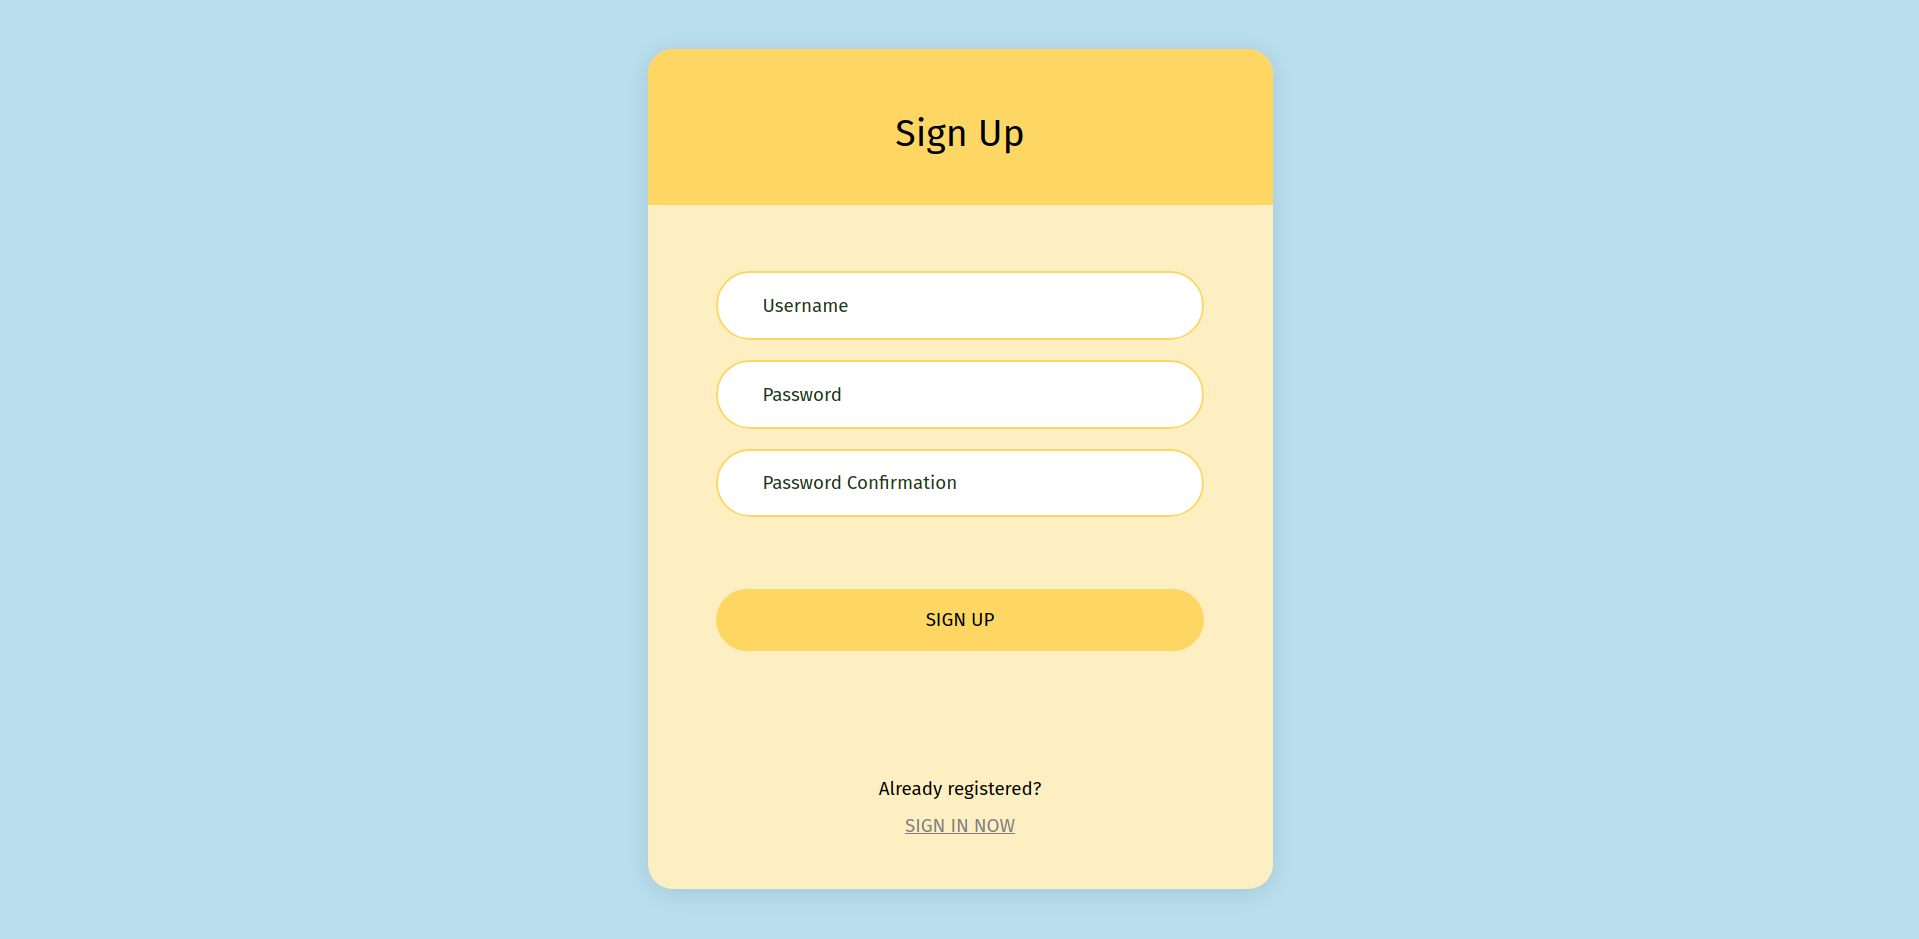
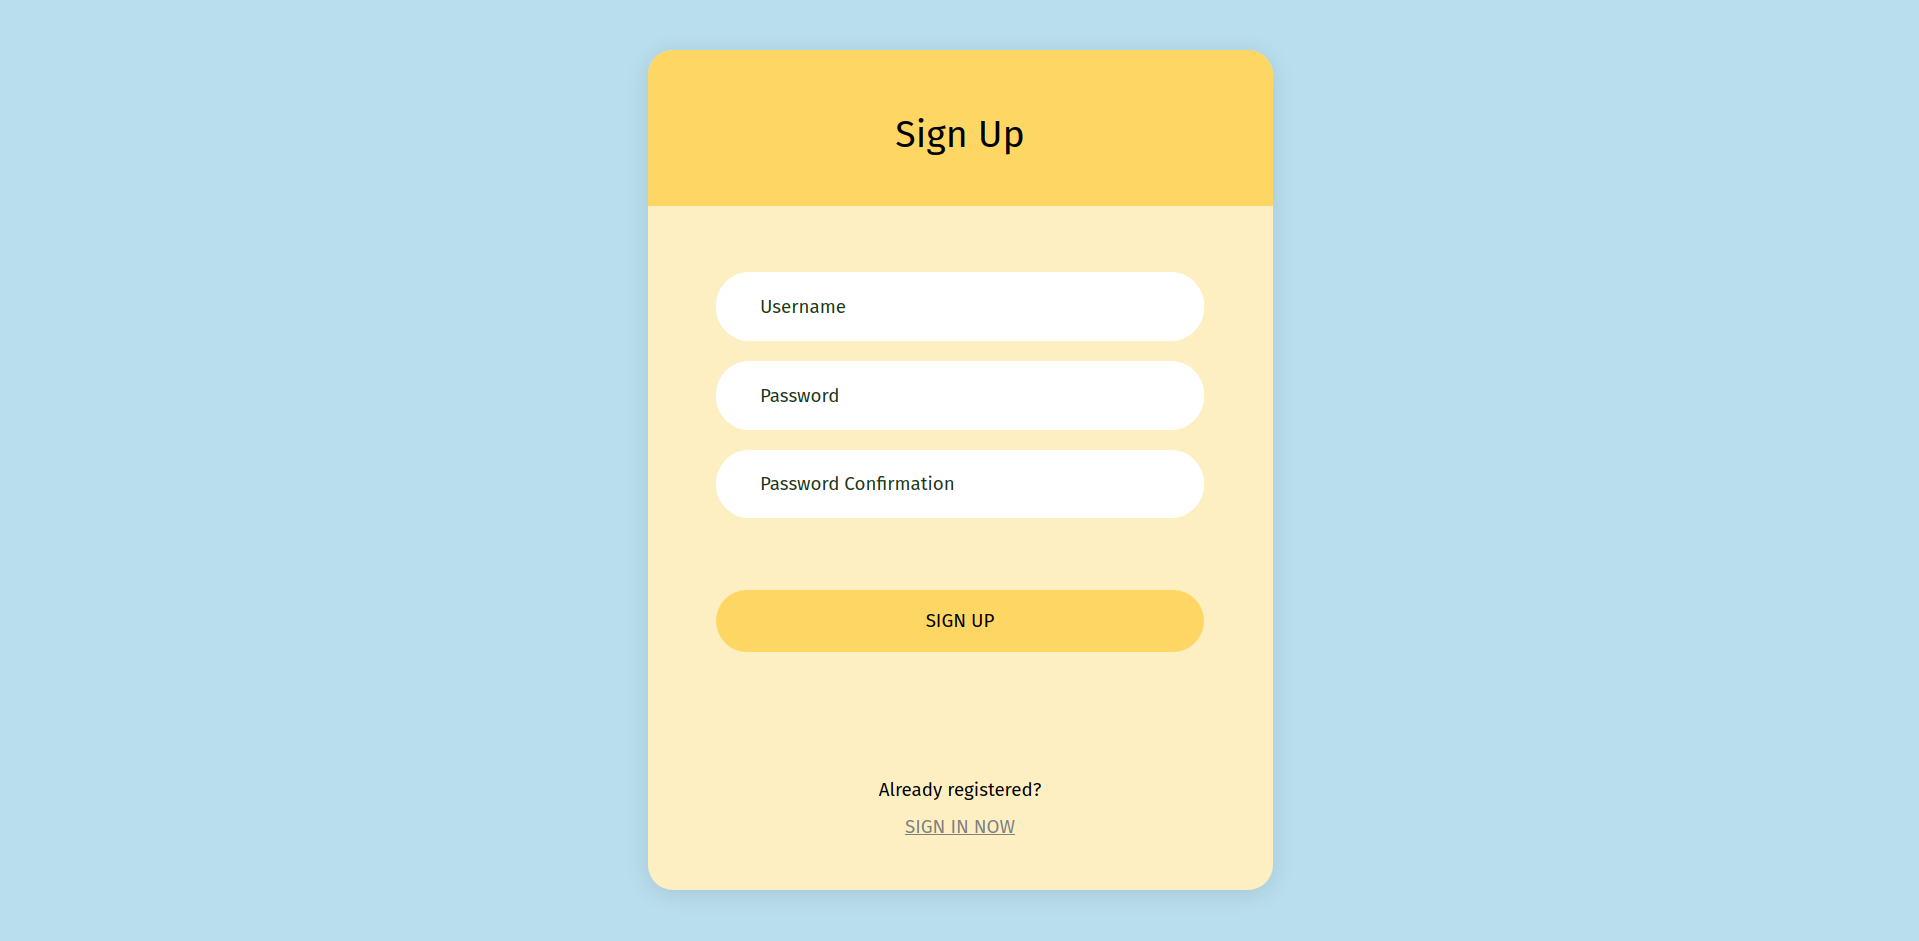
final 1

diff --git a/notes/templates/notes/settings.html b/notes/templates/notes/settings.html
@@ -4,6 +4,24 @@ About
 {% endblock %}
 {% block content %}
     <div style="text-align: center; margin-top: 15px">
-    <h5>This is notes-based mini social network</h5>
+    <h5> Welcome to GroupNotes - a mini scrapbook-based social network! </h5>
+    </div>
+    <div style="margin-left: 10px; margin-right: 10px">
+    <p>
+        check <a href="https://github.com/thunderpeal/group_notes">GroupNotes github</a><br><br>
+        The principle of work is based on the ability to create many boards with notes and share them with colleagues, family, friends, whoever else! <br>
+        By default, you have one whiteboard - for personal notes. However, you can join a group or create one yourself and invite people - a separate board will be created for each group. <br><br>
+        When adding notes, you can specify to which group or to which user from your groups you want to send it, or you can make it personal without selecting anything. <br>
+        All notes sent to the group will be displayed on a separate tab, which can be selected from the drop-down menu at the top. <br>
+        All notes sent to a specific user will be displayed on that user's personal board. Thus, an analogue of private messages is obtained.<br><br>
+        A wide range of actions with the group:
+        <ul>
+        <li>you can change the name and password if you are an admin. The color of the group notes can be chosen by each user of the group - this is the color of the headings of the notes on the group tab.</li>
+        <li>you can exclude users from the group, and then there will be an opportunity to return them - for this there is a special section "Manage ban", in which all blocked users will be stored.</li>
+        <li>you can leave the group, and all joint data will be deleted. If the admin left the group, the admin is randomly selected from the remaining users. If there are none, the group is deleted.</li>
+        <li>you can delete the group yourself (if you are an admin). In this case, all notes will be deleted, all users will be excluded and the group will be deleted permanently. </li>
+        </ul>
+
+    </p>
     </div>
 {% endblock content %}

diff --git a/basic/static/basic/css/main.css b/basic/static/basic/css/main.css
@@ -57,7 +57,7 @@ form{
 }
 input {
   outline: none;
-  border: 2px solid #fdd663;
+  border: none;
   font-family: 'Fira Sans', sans-serif;
   font-size: 15px;
   color: #1b3815;
@@ -372,4 +372,42 @@ iframe {
     padding-left: 15px;
     padding-right: 15px;
   }
+}
+
+.welcome-header{
+  border-radius:  20px 20px 0 0;
+  background-color: #fdd663;
+  padding: 15px;
+  margin: 0;
+  width: 100%;
+  flex: 0 1 auto;
+}
+
+
+
+.group-sign{
+  display: flex;
+justify-content: center;
+  width: 25%;
+  height: 50px;
+  margin-bottom: 15px;
+  background-color: #fdd663;
+  border-radius: 25px;
+  transition: all 0.4s;
+  align-items: center;
+}
+
+.group-sign a{
+  text-decoration: none;
+  color: #000000;
+  width: 100%;
+  height: 100%;
+  font-size: 16px;
+  display: flex;
+    justify-content: center;
+    align-items: center;
+}
+
+.group-sign:hover{
+  background-color: #cab3b7;
 }

diff --git a/notes/templates/notes/basic.html b/notes/templates/notes/basic.html
@@ -4,7 +4,7 @@
 <head>
     <meta charset="UTF-8">
 
-    <title>{% block title %}{% endblock %} — Family Notes</title>
+    <title>{% block title %}{% endblock %} — GroupNotes</title>
     <link href="https://cdn.jsdelivr.net/npm/bootstrap@5.1.0/dist/css/bootstrap.min.css" rel="stylesheet" integrity="sha384-KyZXEAg3QhqLMpG8r+8fhAXLRk2vvoC2f3B09zVXn8CA5QIVfZOJ3BCsw2P0p/We" crossorigin="anonymous">
     <script src="https://cdn.jsdelivr.net/npm/bootstrap@5.1.0/dist/js/bootstrap.bundle.min.js" integrity="sha384-U1DAWAznBHeqEIlVSCgzq+c9gqGAJn5c/t99JyeKa9xxaYpSvHU5awsuZVVFIhvj" crossorigin="anonymous"></script>
 
@@ -38,7 +38,7 @@
     </div>
 
     <div class="project-name">
-        <a href="{% url 'notes' %}" class="active">Group Notes</a>
+        <a href="{% url 'notes' %}" class="active">GroupNotes</a>
 
     </div>
 

diff --git a/basic/templates/basic/welcome_page.html b/basic/templates/basic/welcome_page.html
@@ -4,9 +4,19 @@
 {% endblock %}
 
 {% block content %}
- <div style="text-align: center;" >
-    <h2>Welcome to Family Notes!</h2>
-    <a href="{% url 'login' %}">Login</a> <br>
-    <a href="{% url 'register' %}">Register</a>
+ <div style="text-align: center; height: 200px" >
+ <div style="display: flex; flex-flow: column; height: 100%;">
+
+    <div class="welcome-header">
+        <h2>Welcome to GroupNotes!</h2>
+     </div>
+    <div style="flex: 1 1 auto;">
+        <div style="display: flex; justify-content: space-around; align-items: center; height: 100%">
+            <div class="group-sign"><a href="{% url 'login' %}">SIGN IN</a></div>
+            <div class="group-sign"><a href="{% url 'register' %}">SIGN UP</a></div>
+        </div>
+    </div>
+
+ </div>
  </div>
 {% endblock %}

diff --git a/basic/templates/basic/basic.html b/basic/templates/basic/basic.html
@@ -3,7 +3,7 @@
 <!DOCTYPE html>
 <html lang="en">
 <head>
-	<title>{% block title %}{% endblock title %}  — Family Notes</title>
+	<title>{% block title %}{% endblock title %}  — GroupNotes</title>
     {% block style %}{% endblock style %}
 	<meta charset="UTF-8">
 	<meta name="viewport" content="width=device-width, initial-scale=1">

diff --git a/basic/views.py b/basic/views.py
@@ -12,8 +12,8 @@ def welcome_page(request):
     return render(request, 'basic/welcome_page.html')
 
 
-class UserRegistration(FormView):
-    template_name = 'basic/user_registration.html'
+class UserSignUp(FormView):
+    template_name = 'basic/user_signUp.html'
     form_class = SignUpForm
     success_url = reverse_lazy('notes')
 
@@ -21,16 +21,16 @@ class UserRegistration(FormView):
         user = form.save()
         if user is not None:
             login(self.request, user)
-        return super(UserRegistration, self).form_valid(form)
+        return super(UserSignUp, self).form_valid(form)
 
     def get(self, *args, **kwargs):
         if self.request.user.is_authenticated:
             return redirect('notes')
-        return super(UserRegistration, self).get(*args, **kwargs)
+        return super(UserSignUp, self).get(*args, **kwargs)
 
 
-class CustomLoginView(LoginView):
-    template_name = 'basic/user_login.html'
+class CustomSignInView(LoginView):
+    template_name = 'basic/user_signIn.html'
     form_class = CustomAuthForm
     fields = '__all__'
     redirect_authenticated_user = True
@@ -40,5 +40,5 @@ class CustomLoginView(LoginView):
         return reverse_lazy('notes')
 
 
-class CustomLogoutView(LogoutView):
+class CustomSignOutView(LogoutView):
     next_page = reverse_lazy('welcome-page')

diff --git a/basic/urls.py b/basic/urls.py
@@ -1,9 +1,9 @@
 from django.urls import path
-from .views import CustomLogoutView, CustomLoginView, UserRegistration, welcome_page
+from .views import CustomSignOutView, CustomSignInView, UserSignUp, welcome_page
 
 urlpatterns = [
-    path('sign-up/', UserRegistration.as_view(), name='register'),
-    path('sign-out/', CustomLogoutView.as_view(), name='logout'),
-    path('sign-in/', CustomLoginView.as_view(), name='login'),
+    path('sign-up/', UserSignUp.as_view(), name='register'),
+    path('sign-out/', CustomSignOutView.as_view(), name='logout'),
+    path('sign-in/', CustomSignInView.as_view(), name='login'),
     path('welcome-page/', welcome_page, name='welcome-page')
 ]
